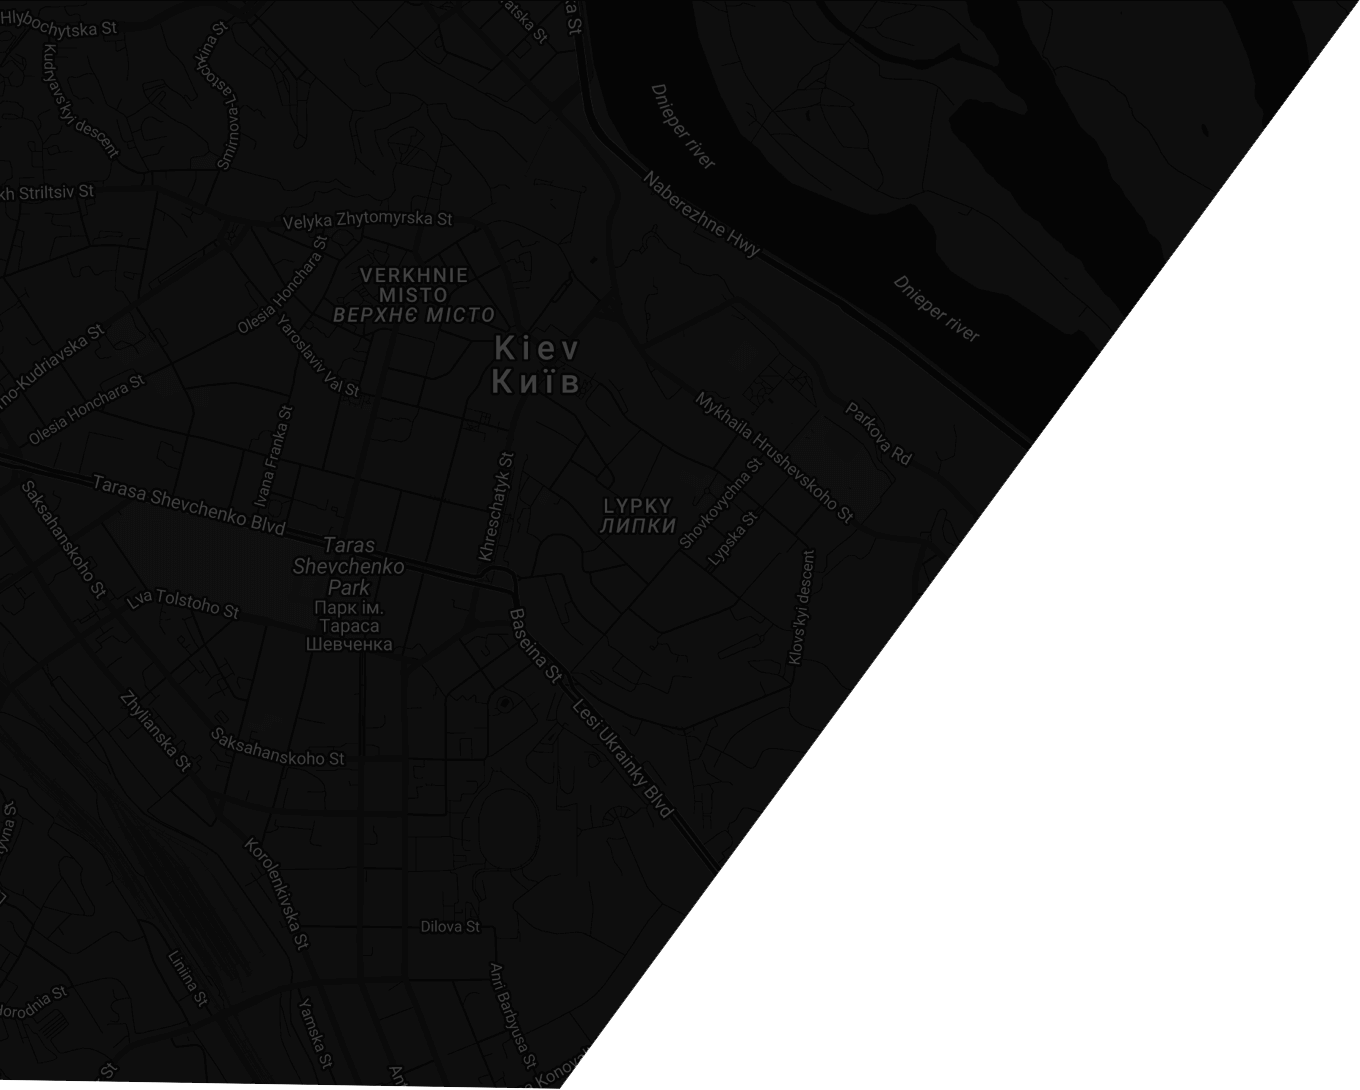
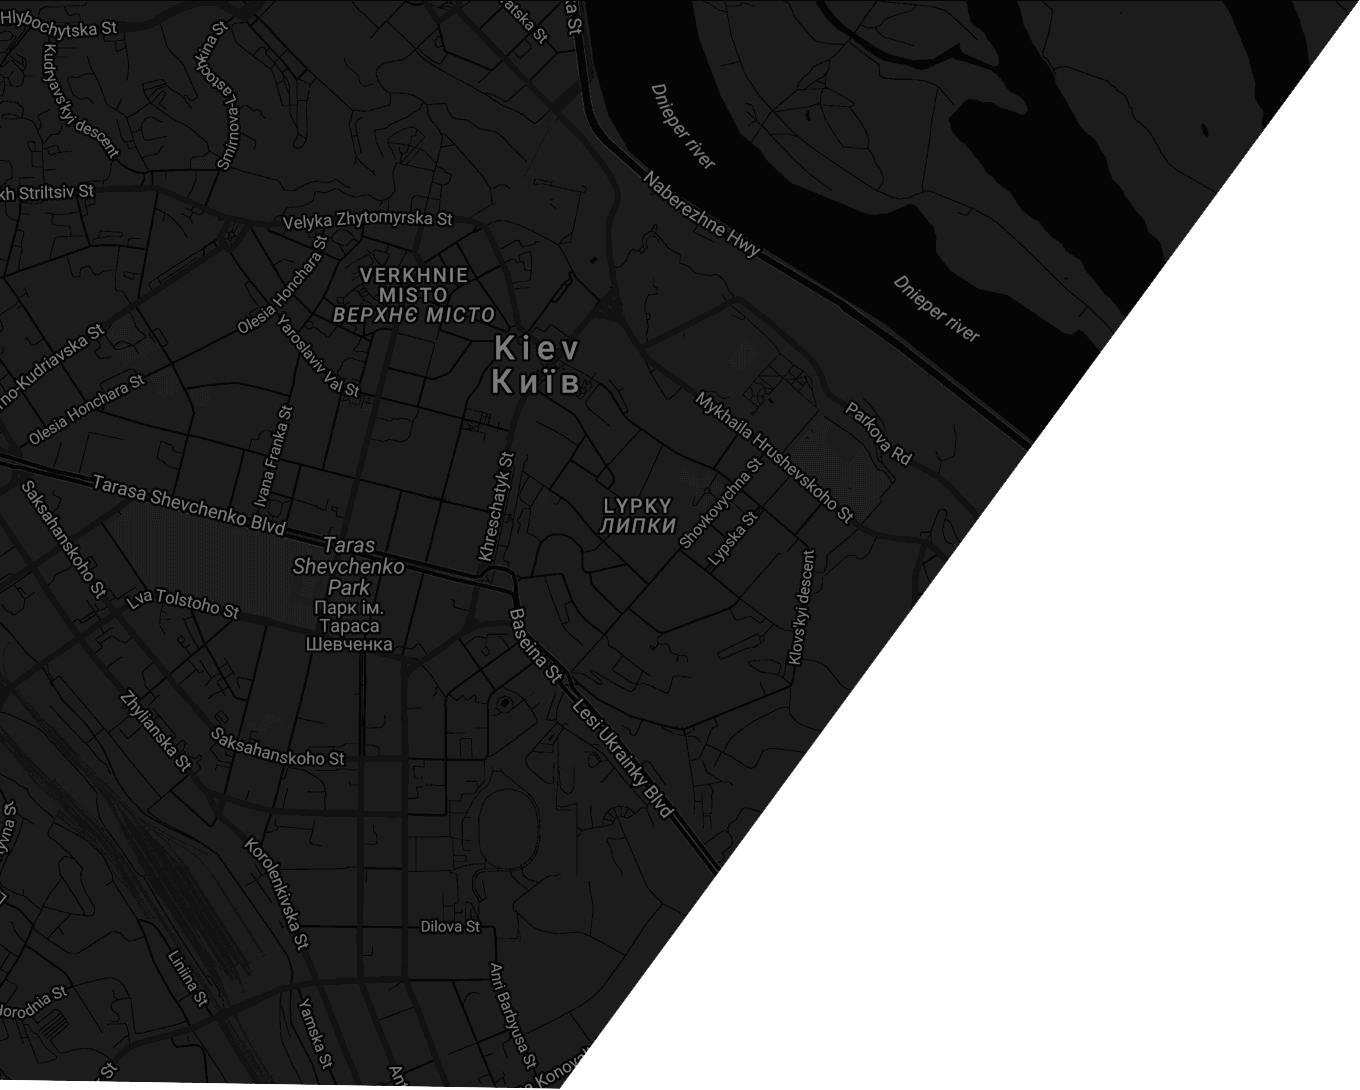
/salons images lighter

diff --git a/public/stylesheets/sass/modules/client/_salons.scss b/public/stylesheets/sass/modules/client/_salons.scss
@@ -8,6 +8,16 @@
   min-height: 480px;
   //overflow-y: auto;
  }
+ &:before {
+  content: '';
+  width: 100%;
+  height: 100%;
+  background: $color-black-02;
+  position: absolute;
+  top: 0;
+  left: 0;
+  z-index: 3;
+ }
 }
 #salon {
  opacity: 0;
